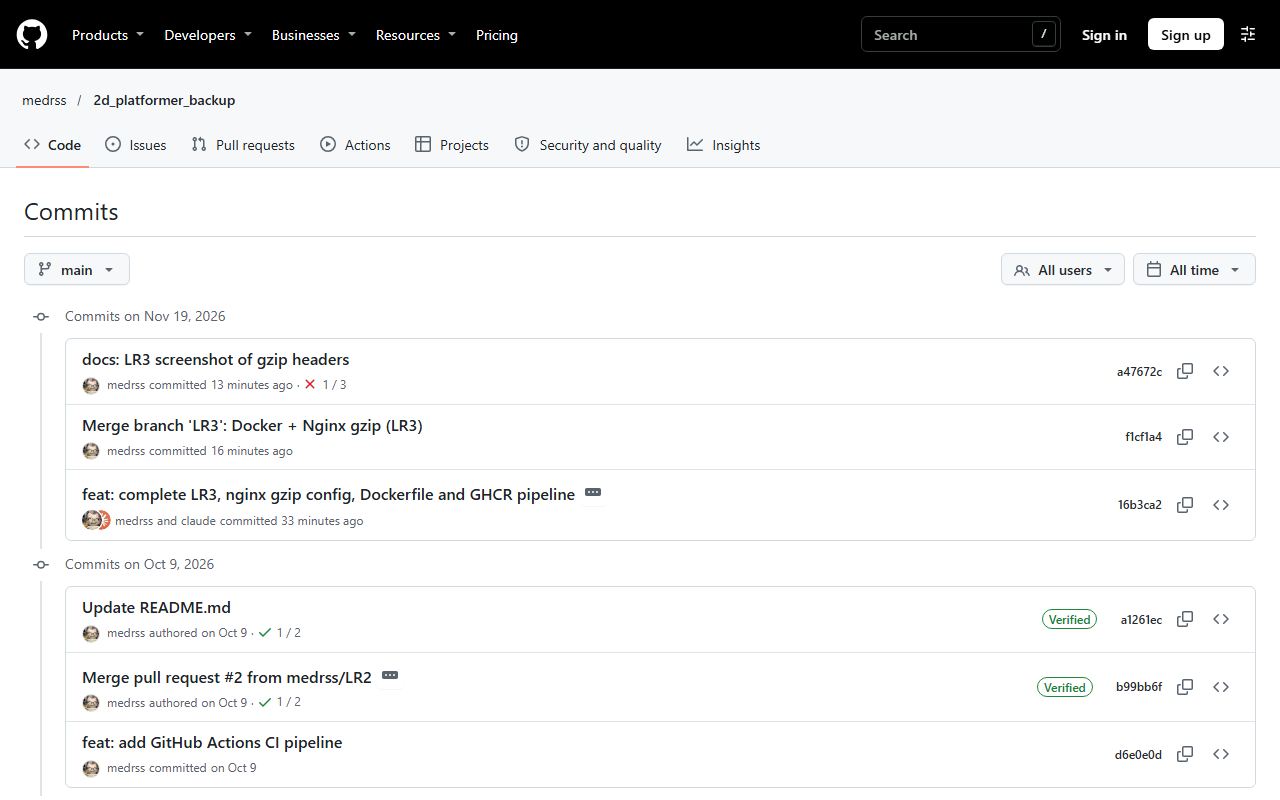
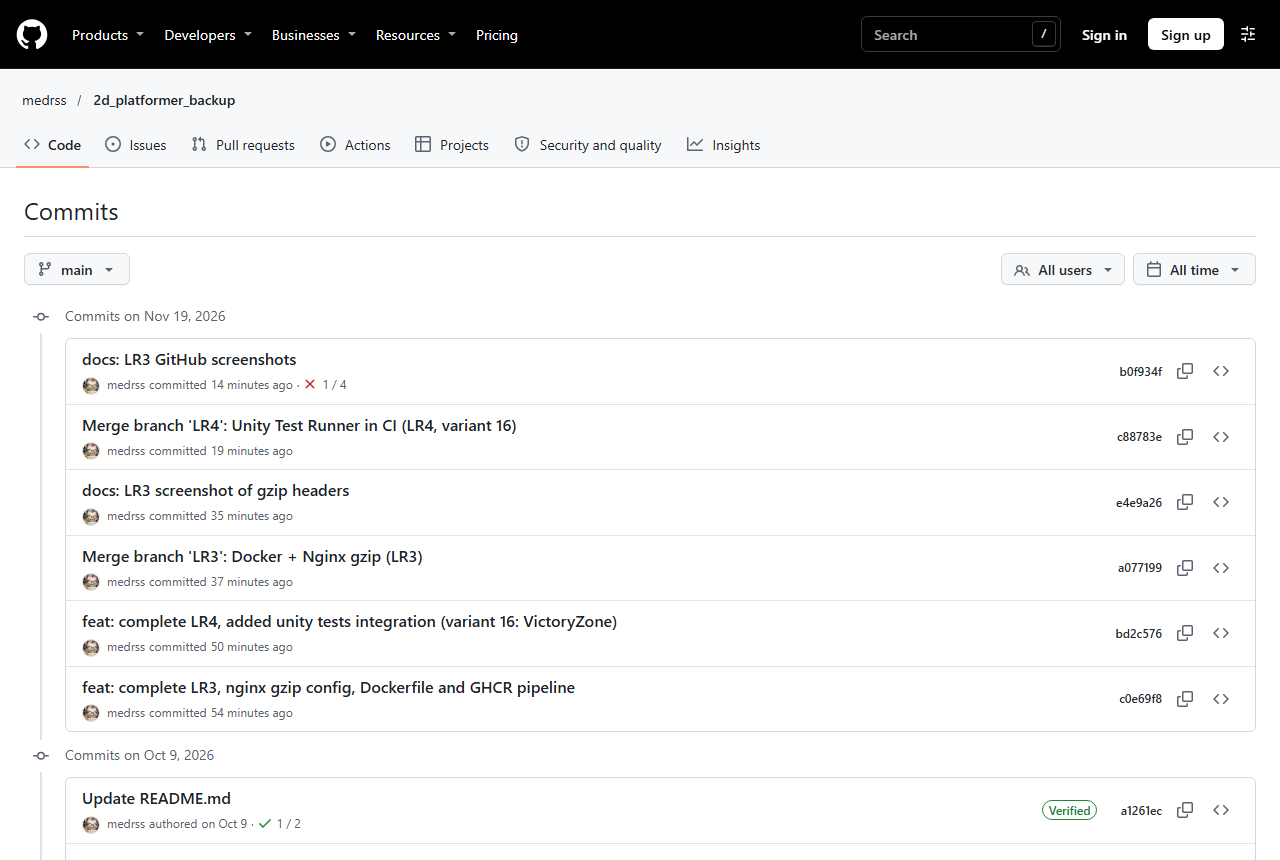
test: restore PlayerHealthTests after pipeline protection demo; docs: LR4 screenshots

diff --git a/Assets/Tests/PlayMode/PlayerHealthTests.cs b/Assets/Tests/PlayMode/PlayerHealthTests.cs
@@ -24,9 +24,6 @@ public class PlayerHealthTests
 
         Assert.IsTrue(health.IsAlive, "Ошибка: персонаж должен быть жив на старте!");
 
-        // ВРЕМЕННО: намеренная ошибка для демонстрации защиты пайплайна
-        Assert.AreEqual(1, 2, "Демонстрация: тест намеренно сломан");
-
         // Имитируем получение урона: Health.Decrement() уменьшает HP на 1
         health.Decrement();
         Assert.IsTrue(health.IsAlive, "Ошибка: персонаж не должен погибнуть после одного урона!");

diff --git a/LR4.md b/LR4.md
@@ -20,7 +20,9 @@
 
 Тестовые сборки подключают NUnit (`nunit.framework.dll`) и `UnityEngine/UnityEditor.TestRunner` и компилируются только при `UNITY_INCLUDE_TESTS`, поэтому не попадают в финальную сборку игры.
 
-<!-- Скриншот: Inspector GameAssembly / Tests.asmdef с Assembly Definition References -->
+![Tests.asmdef: includePlatforms Editor и ссылка на GameAssembly](docs/screenshots/lr4_tests_asmdef.png)
+
+![Папка Assets/Tests/PlayMode с тестами и PlayModeTests.asmdef](docs/screenshots/lr4_tests_folder.png)
 
 ## 2. Автоматические тесты
 
@@ -51,9 +53,16 @@
 * `OnTriggerEnter2D`, очередь `Simulation.eventQueue` и поле `animator` закрыты (`private`/`internal`), поэтому к ним тест обращается через Reflection;
 * перед каждым тестом и после него очередь событий очищается `Simulation.Clear()`.
 
-Результат локального запуска в Test Runner:
+Результат запуска (Unity Test Runner в контейнере `unityci/editor`, GitHub Actions):
 
-<!-- Скриншот: Test Runner — EditMode и PlayMode, все тесты зелёные -->
+| Тест | Режим | Результат |
+|---|---|---|
+| `PlayerTests.EditMode_PlayerTag_IsCorrect` | EditMode | ✅ Passed |
+| `PlayerHealthTests.PlayMode_PlayerTakesDamage_HealthDecreases` | PlayMode | ✅ Passed |
+| `VictoryZoneTests.PlayMode_PlayerEntersVictoryZone_SchedulesEvent` (**вариант 16**) | PlayMode | ✅ Passed |
+| `VictoryZoneTests.PlayMode_NonPlayerEntersVictoryZone_NoEventScheduled` (**вариант 16**) | PlayMode | ✅ Passed |
+
+Итог: **4/4 passed**.
 
 ## 3. Запуск тестов в GitHub Actions
 
@@ -64,7 +73,8 @@
 * устанавливает GameCI CLI `v0.1.72` и запускает тесты в контейнере `unityci/editor` сразу для `playmode` и `editmode` (`COMBINE_RESULTS`);
 * версия Unity задана явно: `--engineVersion=6000.5.10f1` (файл `ProjectVersion.txt` исключён `.gitignore`);
 * `--coverageEnabled=false` — без инструментирования кода, которое роняет Unity 6 в контейнере (SIGSEGV);
-* результаты сохраняются артефактом `test-results` (даже при падении тестов).
+* результаты сохраняются артефактом `test-results` (даже при падении тестов);
+* шаг `Test results summary` разбирает XML с результатами и выводит итог по каждому тесту в аннотации и Summary прогона.
 
 Задачи `mirror_repo` и `build_docker_image` теперь зависят от `needs: run_tests`:
 
@@ -81,17 +91,17 @@ sanity_check → run_tests → mirror_repo
 * `UNITY_EMAIL` — email аккаунта Unity;
 * `UNITY_PASSWORD` — пароль аккаунта Unity.
 
-<!-- Скриншот: список секретов репозитория -->
+Файл лицензии привязан к компьютеру, на котором активирован, поэтому на облачном раннере GameCI активирует редактор через `UNITY_EMAIL`/`UNITY_PASSWORD` (в логе — предупреждение «machine binding doesn't match»). Для аккаунта Unity задан вход по паролю, двухфакторная аутентификация отключена.
 
 ## 5. Проверка результатов
 
-* Во вкладке **Actions** задача `run_tests` зелёная, в логе видны результаты EditMode и PlayMode, доступен артефакт `test-results`.
+* Во вкладке **Actions** задача `run_tests` зелёная, все 4 теста (EditMode и PlayMode) прошли, доступен артефакт `test-results`. После тестов выполнились `mirror_repo` и `build_docker_image`.
 
-<!-- Скриншот: Actions — зелёный run_tests и лог тестов -->
+![Actions — зелёный пайплайн и результаты тестов](docs/screenshots/lr4_actions_green.png)
 
-* **Демонстрация защиты пайплайна:** в тест временно добавлено `Assert.AreEqual(1, 2)` — `run_tests` стал красным, а `mirror_repo` и `build_docker_image` не запустились. После этого тест возвращён в исправное состояние.
+* **Демонстрация защиты пайплайна:** в `PlayerHealthTests` временно добавлено `Assert.AreEqual(1, 2)`. Тест `PlayMode_PlayerTakesDamage_HealthDecreases` упал, `run_tests` стал красным, а `mirror_repo` и `build_docker_image` **не запустились** (пропущены). После этого тест возвращён в исправное состояние.
 
-<!-- Скриншот: Actions — красный run_tests, пропущенные задачи сборки -->
+![Actions — красный run_tests, задачи сборки пропущены](docs/screenshots/lr4_actions_red.png)
 
 ## Ответы на контрольные вопросы
 
